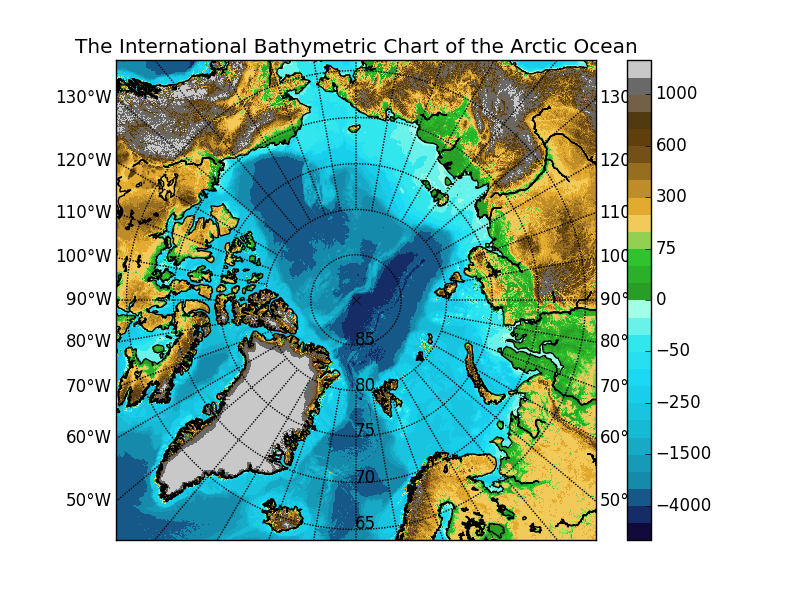
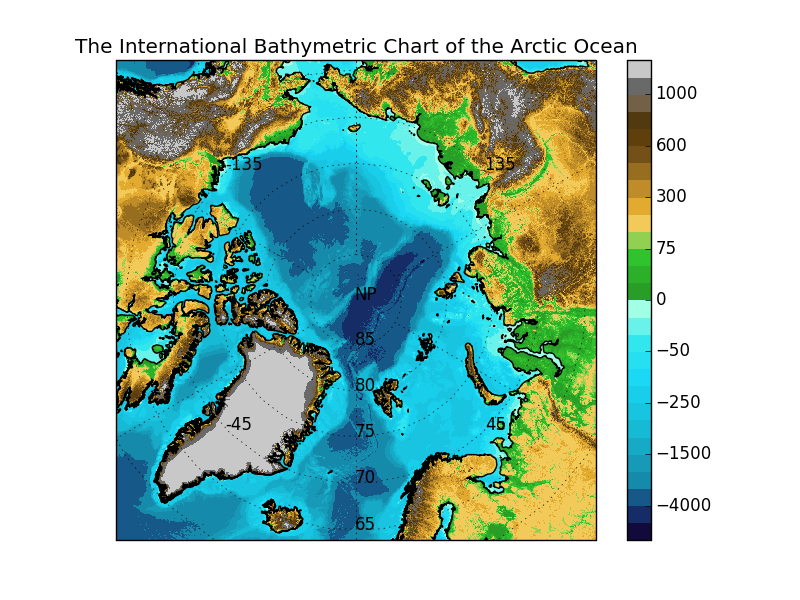
update example

diff --git a/ibcao.py b/ibcao.py
@@ -229,7 +229,7 @@ if __name__ == '__main__':
   f = i.template (10) # only plot every 10th data point
 
   # lets put some text along the parallels
-  lat = np.arange (60, 90, 5)
+  lat = np.arange (65, 90, 5)
   lon = np.repeat (0, len(lat))
 
   # regular lat, lon projection

diff --git a/README.md b/README.md
@@ -20,36 +20,32 @@ $ python ibcao.py
 or in your code do something like:
 ```python
   print ("testing ibcao class")
-  from ibcao import *
   import matplotlib.pyplot as plt
   import matplotlib.cm as cm
 
-  m = IBCAO ()
-  b = m.Basemap()
+  i = IBCAO ()
 
-  b.drawcoastlines ()
+  f = i.template (10) # only plot every 10th data point
 
-  # only plot every 'div' data point
-  div = 10
-  zz = m.z.data[::div, ::div]
+  # lets put some text along the parallels
+  lat = np.arange (65, 90, 5)
+  lon = np.repeat (0, len(lat))
 
-  dim = zz.shape[0]
-  lons, lats = b.makegrid(dim, dim)
-  x, y = b(lons, lats)
+  # regular lat, lon projection
+  g = ccrs.Geodetic ()
 
-  (cmap, norm) = m.Colormap ()
-  plt.pcolormesh (x, y, zz, cmap = cmap, norm = norm)
+  for lon, lat in zip (lon, lat):
+    plt.text (lon, lat, str(lat), transform = g)
 
-  # set up meridians
-  meridians = np.arange (0, 360, 10)
-  b.drawmeridians (meridians, labels = [True, True, False, False])
+  # and some along the meridians
+  lon = [-45, 45, 135, -135]
+  lat = np.repeat (70, len(lon))
 
-  # parallels
-  parallels = np.arange (70, 90, 5)
-  b.drawparallels (parallels, labels = [False, False, True, True])
+  for lon, lat in zip (lon, lat):
+    plt.text (lon, lat, str(lon), transform = g)
 
-  plt.title ('The International Bathymetric Chart of the Arctic Ocean')
-  plt.colorbar ()
+  # also; the north pole
+  plt.text (0, 90, "NP", transform = g)
 
   plt.show ()
 ```
